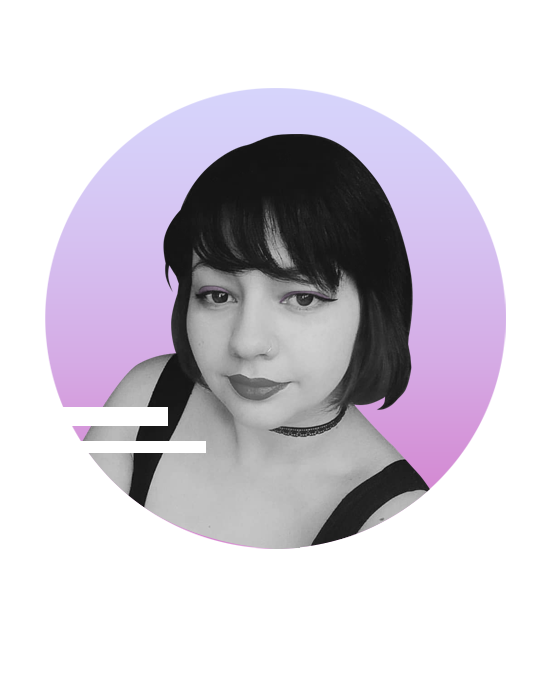
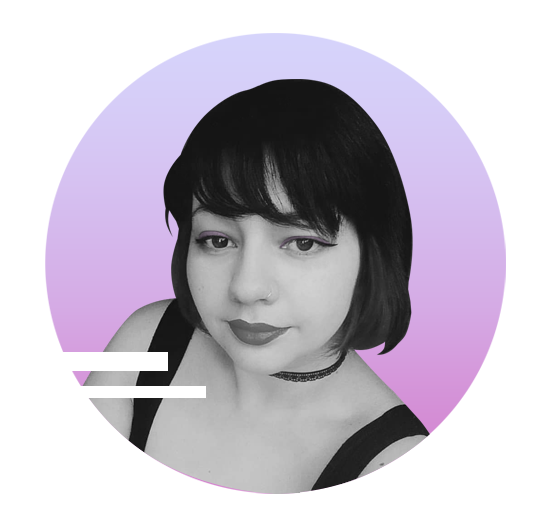
Update

diff --git a/assets/css/style.css b/assets/css/style.css
@@ -102,16 +102,17 @@ p.subtitulo2 {
 }
 
 /* Extra small devices (portrait phones, less than 576px)*/
-@media (max-width: 575.98px) {
+@media (max-width: 768px) {
 
     .hero__section {
         background-color: #e1a2b7;
         background-image: url(../img/fondo-maruu.png), url(../img/bg.png);
         background-repeat: no-repeat;
         background-size: 100%, cover;
-        background-position: center;
+        background-position: left;
         background-repeat: no-repeat;
         height: 700px;
+        margin-top: -75px;
     }
 
     .header__text {
@@ -124,12 +125,12 @@ p.subtitulo2 {
     p.header {
         font-family: 'Montserrat', sans-serif;
         font-weight: 300;
-        font-size: 1.6rem;
+        font-size: 1.4rem;
         margin: 28rem 0px 0px 0px;
         padding-left: 10px;
         color: #ffffff;
         background-color: black;
-        width: 350px;
+        width: 325px;
         letter-spacing: 0.7rem;
     }
 
@@ -138,8 +139,8 @@ p.subtitulo2 {
         font-size: 0.9rem;
         color: #000000;
         background-color: #ffffff;
-        letter-spacing: 0.7rem;
-        width: 350px;
+        letter-spacing: 0.6rem;
+        width: 325px;
         padding: 5px 5px 5px 20px;
     }
 
@@ -148,8 +149,8 @@ p.subtitulo2 {
         font-size: 0.9rem;
         color: #000000;
         background-color: #ffffff;
-        letter-spacing: 0.7rem;
-        width: 220px;
+        letter-spacing: 0.6rem;
+        width: 210px;
         padding: 5px 5px 5px 20px;
     }
 
@@ -527,13 +528,14 @@ p.footer-brand {
 
 /* Extra small devices (portrait phones, less than 576px) */
 
-@media (max-width: 575.98px) {
+@media (max-width: 768px) {
 
     .ml11 {
         font-family: 'Montserrat', sans-serif;
         font-weight: 700;
-        font-size: 2.9rem;
+        font-size: 2.7rem;
         color: #ffffff;
+        margin-top: 6px;
     }
 
     .ml11 .text-wrapper {
@@ -542,7 +544,7 @@ p.footer-brand {
         display: inline-block;
         padding-top: 0.1em;
         padding-right: 0.05em;
-        width: 350px;
+        width: 325px;
         padding-left: 10px;
     }
 
